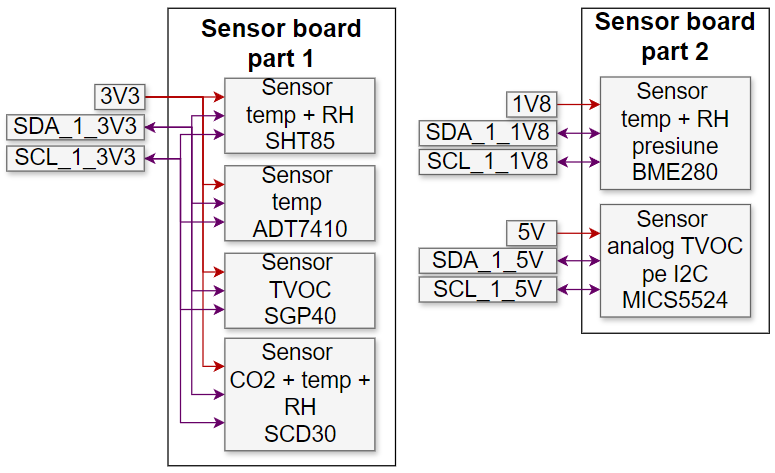
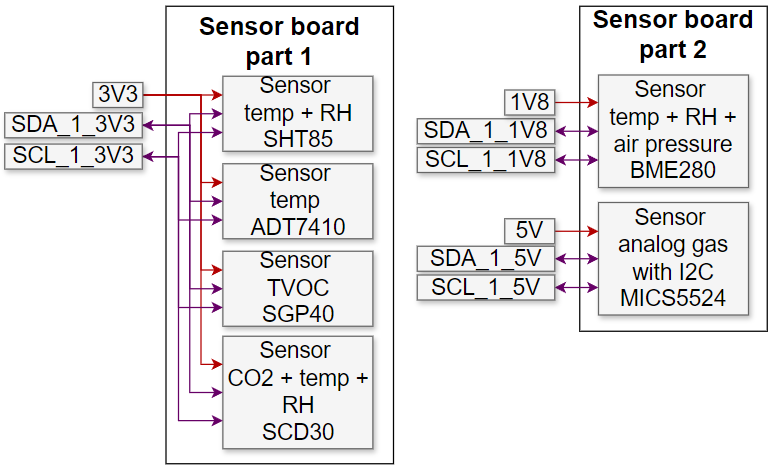
added sections; minor updates
added Introduction, About the project, Sensor board, Final device, Dashboard and Results sections

Changed region(s): [[0.0, 0.0, 0.9935, 1.0]]

diff --git a/README.md b/README.md
@@ -10,6 +10,12 @@
 <!-- ______________________________________________________________________________________________________________________________________________________ INTRODUCTION -->
 # :rocket: Introduction
 
+Air quality is a global issue, both short and long term exposure to air pollution can cause a range of health issues, including respiratory diseases, heart disease, cognitive deficits, and more. 
+Improving air quality not only helps prevent these health issues but also boosts productivity levels.
+
+The aim of this project is to develop a custom hardware and software solution for monitoring multiple air quality parameters. 
+The system will provide real-time data to users, enabling them to assess air quality and make informed decisions.
+
 
 <!-- ______________________________________________________________________________________________________________________________________________________ TABLE OF CONTENT -->
 # :ledger:Table of content
@@ -39,12 +45,16 @@
   - [Main board](#main-board)
     - [Layout](#layout)
   - [Sensor board](#sensor-board)
+    - [Layout](#layout-1)
   - [Final device](#final-device)
 - [Software implementation](#software-implementation)
   - [Microcontroller](#microcontroller)
   - [Dashboard](#dashboard)
-- [:partying\_face: Results](#partying_face-results)
+    - [Node-RED](#node-red)
+    - [MQTT](#mqtt)
+    - [Website](#website)
 - [:fire: Demo](#fire-demo)
+- [:partying\_face: Results](#partying_face-results)
 - [:star2: Future work](#star2-future-work)
 - [:checkered\_flag: Conclusions](#checkered_flag-conclusions)
 - [:mag\_right: Resources](#mag_right-resources)
@@ -54,20 +64,30 @@
 <!-- ______________________________________________________________________________________________________________________________________________________ ABOUT THE PROJECT -->
 # :page_facing_up: About the project
 
-
-The device must monitor the following parameters:
+The following parameters must be monitored:
 1. temperature
 2. humidity
 3. air pressure
-4. CO2 quantity
+4. CO2 concentration
 5. PM particles density
 6. TVOC
 7. luminosity
-8. acceleration and gyro
- 
-A customized device was developed to achieve the previously mentioned objectives.
+8. acceleration
+9. angular acceleration
 
-The acronyms used during the device presentation can be found in the [Glossary](#mag_right-glossary) section.
+A customized device was developed to integrate multiple sensors for tracking these parameters.
+
+The device is split into two PCBs, based on their functionality. 
+The sensor board contains the sensors that need direct contact with the air, and the main board accommodates the rest of the components.
+This design protects the components on the main board from external environmental factors.
+
+The microcontroller periodically reads the sensor data and sends it to a server via WiFi using the MQTT protocol, where the data is stored. 
+The user can interact with the archived data using a website created using Node-RED. 
+From there, users can view the data and execute various queries to extract data sets for further processing, such as applying different filters on them.
+
+
+The acronyms used during the device presentation can be found in the [Glossary](#mag_right-glossary) section, and the resources in the [Resources](#mag_right-resources) section.
+
 
 <!-- ------------------------------------------------------------------------------------------------------------------------------------------------------ PROGRAMS USED -->
 ## Programs used
@@ -435,32 +455,178 @@ All components, except for the ESP32, IMU, and light sensors, are placed on the 
 
 ## Sensor board
 
+
+**FIGURE 12: Sensor board functional block - sensors**
+
 <img src="docs/hardware_implementation/sensor_board/functional_blocks/sensor_board_functional_block_sensors.png" width="50%" height="auto">
+
+The sensors that require direct contact with the air ( temperature, humidity, CO2, air pressure, and TVOC ) are placed on this PCB.
+
+**FIGURE 13: Sensor board functional block - sound to I2C**
 
 <img src="docs/hardware_implementation/sensor_board/functional_blocks/sensor_board_functional_block_TVOC_to_I2C.png" width="40%" height="auto">
 
+Similar to the sound sensor, the analog voltage provided by the MiCS-5524 is measured by an MCP3221, and the result is read by the ESP32 via I2C.
 
+
+
+<!-- ------------------------------------------------------------------------------------------------------------------------------------------------------ Layout -->
+### Layout
+
+**FIGURE 14: Sensor board layout**
+
+<img src="docs/hardware_implementation/sensor_board/layout/sensor_board_layout.png" width="60%" height="auto">
+
+The layout of the sensor board is shown in **Figure 25**.
+The sensors were placed to minimize the width of the board.
+
+
+**FIGURE 15: Sensor board top and bot view**
+
+<img src="docs/hardware_implementation/sensor_board/layout/sensor_board_3D_model_top.png" width="40%" height="auto">
+
+<img src="docs/hardware_implementation/sensor_board/layout/sensor_board_3D_model_bot.png" width="40%" height="auto">
+
+The sensor board is shown in **Figure 15**.
+The board can be fixed in place using two screws.
+
+
+
+
+
+<!-- ------------------------------------------------------------------------------------------------------------------------------------------------------ Final device -->
 ## Final device
 
-<img src="docs/hardware_implementation/final_device/final_device.jpeg" width="20%" height="auto">
+**FIGURE 16: Final device**
 
+<img src="docs/hardware_implementation/final_device/final_device.jpeg" width="60%" height="auto">
+
+The final device is shown in **Figure 16**.
+The sensor board is mounted on the main board using the two headers.
+The PM and sound boards are connected to the main board using multiple cables.
+The assembly is held in place by 4 screws, 4 nuts, and 4 spacers.
+
+The device could be integrated into a housing with two compartments: one for the sound board and main board, and one for the PM and sensor board.
+While the sound module is large and cannot be placed outside, the microphone could be carefully desoldered and attached to the first compartment.
+
+
+
+
+
+
+
+
+<!-- ______________________________________________________________________________________________________________________________________________________ SOFTWARE IMPLEMENTATION -->
 # Software implementation
 
+In this section, the software implementation of the device will be detailed.
+
+The software architecture of the system was designed to be highly scalable, allowing the microcontroller to easily integrate new sensors and enabling the website to support multiple devices.
+
+
+
+<!-- ------------------------------------------------------------------------------------------------------------------------------------------------------ Microcontroller -->
 ## Microcontroller
+
+
+**FIGURE 17: I2C driver**
 
 <img src="docs/software_implementation/microcontroller/I2C_DRIVER_class_structure.png" width="50%" height="auto">
 
+**FIGURE 18: Sensor class**
+
 <img src="docs/software_implementation/microcontroller/SENSOR_class_structure.png" width="50%" height="auto">
 
+
+
+
+
+<!-- ------------------------------------------------------------------------------------------------------------------------------------------------------ Dashboard -->
 ## Dashboard
 
-<img src="docs/software_implementation/dashboard/dashboard_final_interface.png" width="170%" height="auto">
+First, a brief summary of the technology used will be presented, followed by a discussion on the website's implementation.
+
+
+<!-- ------------------------------------------------------------------------------------------------------------------------------------------------------ Node-RED -->
+### Node-RED
+
+**FIGURE 19: Node-RED**
+
+<img src="docs/software_implementation/dashboard/node_red/Node_RED.png" width="15%" height="auto">
+
+Node-RED was chosen to implement the website, primarily because it is easier to use compared to other alternatives on the market, and new devices can be integrated easily. 
+This API was developed by IBM specifically for IoT applications as a flow-based, low-code development tool for visual programming.
+
+The website's functionality is achieved by connecting multiple nodes to each other. 
+Information travels in the form of packets between these nodes. 
+The programming language used for implementation is JavaScript. 
+Most common needs are addressed by a wide range of standard nodes available, making the development process smooth and fast.
+
+
+<!-- ------------------------------------------------------------------------------------------------------------------------------------------------------ asdasdsadsa -->
+### MQTT
+
+**FIGURE 20: MQTT**
+
+<img src="docs/software_implementation/dashboard/mqtt/MQTT.png" width="30%" height="auto">
+
+The communication between the ESP32 and the website is accomplished using the MQTT network protocol. 
+It operates over the TCP/IP stack, which prevents packet loss by automatically retransmitting dropped packets. 
+This ensures that there are no gaps in the data sets.
+
+
+**FIGURE 21: MQTT topology**
+
+<img src="docs/software_implementation/dashboard/mqtt/MQTT_topology.png" width="60%" height="auto">
+
+The protocol is implemented using a star topology, meaning the system will continue to operate as long as the central node remains functional.
+
+The entities can be classified into two categories, as follows:
++ **MQTT client**: a device that connects to the network; there can be multiple clients on a single network
++ **MQTT broker**: manages all messages from clients and directs them to their destination; there is only one broker per network
+
+Messages are sent and received using a publish-subscribe strategy, which involves a client sending data to a broker. 
+The advantage of this strategy is that the device doesn't need to account for how many clients will receive the data, as the broker manages the distribution.
+
+
+<!-- ------------------------------------------------------------------------------------------------------------------------------------------------------ Website -->
+### Website
+
+The MQTT server is hosted on a Raspberry Pi.
+The acquired data is saved in a .CSV file.
+The user can extract the data stored in the database by either selecting a certain time interval or downloading the entire file.
+
+
+
+**FIGURE 22: Dashboard final interface**
+
+<img src="docs/software_implementation/dashboard/website/dashboard_final_interface.png" width="190%" height="auto">
+
+The final website is shown in **Figure 22**.
+The items are organized into four columns: three for the sensor readings graphs and one for downloading data. 
+The sensor data is grouped by type.
+
+
+<!-- ______________________________________________________________________________________________________________________________________________________ DEMO -->
+# :fire: Demo
 
 <!-- ______________________________________________________________________________________________________________________________________________________ RESULTS -->
 # :partying_face: Results
 
-<!-- ______________________________________________________________________________________________________________________________________________________ DEMO -->
-# :fire: Demo
+The problem with monitoring these air quality parameters is that there wasn't a clear reference available to compare the measurements against. 
+The tolerances presented in the sensor datasheets are provided for some specific conditions.
+After integrating the sensors onto the PCBs, their values might change. 
+To validate the configuration, the device's readings should be compared to those of multiple calibrated pieces of equipment.
+
+
+The device generates a significant amount of heat due to the 5V LDO ( **Figure 4** ) because of its power dissipation. 
+However, this issue could easily be resolved by placing a buck converter before the LDO to lower the voltage to a more acceptable level, such as 6V. 
+The same steps could be followed for the 3V3 and 1V8 voltage levels.
+
+
+The website responds slowly when the sampling period is short, as many graphs need to be refreshed frequently. 
+This could be addressed by exploring other similar tools available on the market
+
 
 <!-- ______________________________________________________________________________________________________________________________________________________ FUTURE WORK -->
 # :star2: Future work
